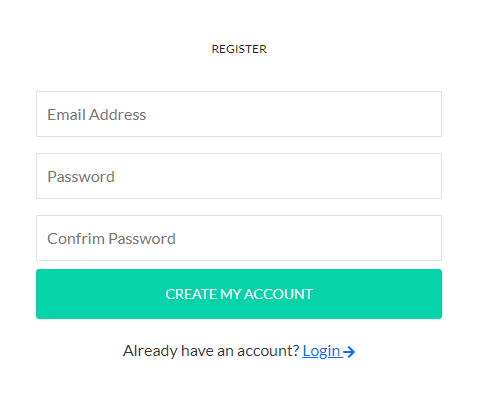
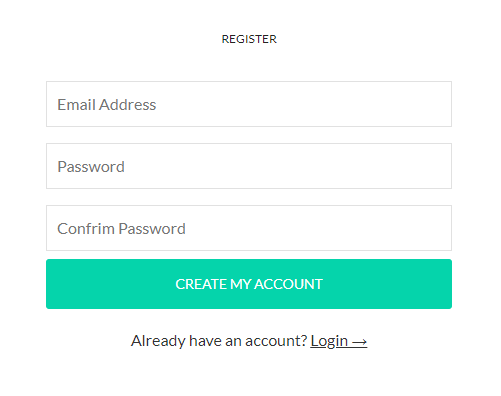
form_14 modify

diff --git a/form/form_14/index.html b/form/form_14/index.html
@@ -27,10 +27,7 @@
 								</form>
 								<p>
 									Already have an account?
-									<a href="#">
-										Login
-										<svg aria-hidden="true" width="12" xmlns="http://www.w3.org/2000/svg" viewBox="0 0 448 512"><path fill="currentColor" d="M190.5 66.9l22.2-22.2c9.4-9.4 24.6-9.4 33.9 0L441 239c9.4 9.4 9.4 24.6 0 33.9L246.6 467.3c-9.4 9.4-24.6 9.4-33.9 0l-22.2-22.2c-9.5-9.5-9.3-25 .4-34.3L311.4 296H24c-13.3 0-24-10.7-24-24v-32c0-13.3 10.7-24 24-24h287.4L190.9 101.2c-9.8-9.3-10-24.8-.4-34.3z"></path></svg>
-									</a>
+									<a href="#">Login &#8594;</a>
 								</p>
 							</div>
 						</div>

diff --git a/form/form_14/style.scss b/form/form_14/style.scss
@@ -43,9 +43,9 @@ body {
 			-webkit-transition: 1s;
 			transition: 1s;
 
-         &:hover {
-            background: red;
-         }
+			&:hover {
+				background: red;
+			}
 		}
 	}
 
@@ -55,5 +55,12 @@ body {
 		color: #333333;
 		text-align: center;
 		padding: 20px 0 40px 0;
+
+		a {
+			font-size: 16px;
+			line-height: 22px;
+			color: #333333;
+			text-decoration: underline;
+		}
 	}
 }

diff --git a/form/form_14/style.css b/form/form_14/style.css
@@ -51,3 +51,9 @@ body {
   text-align: center;
   padding: 20px 0 40px 0;
 }
+.sct_form_14 > p a {
+  font-size: 16px;
+  line-height: 22px;
+  color: #333333;
+  text-decoration: underline;
+}
